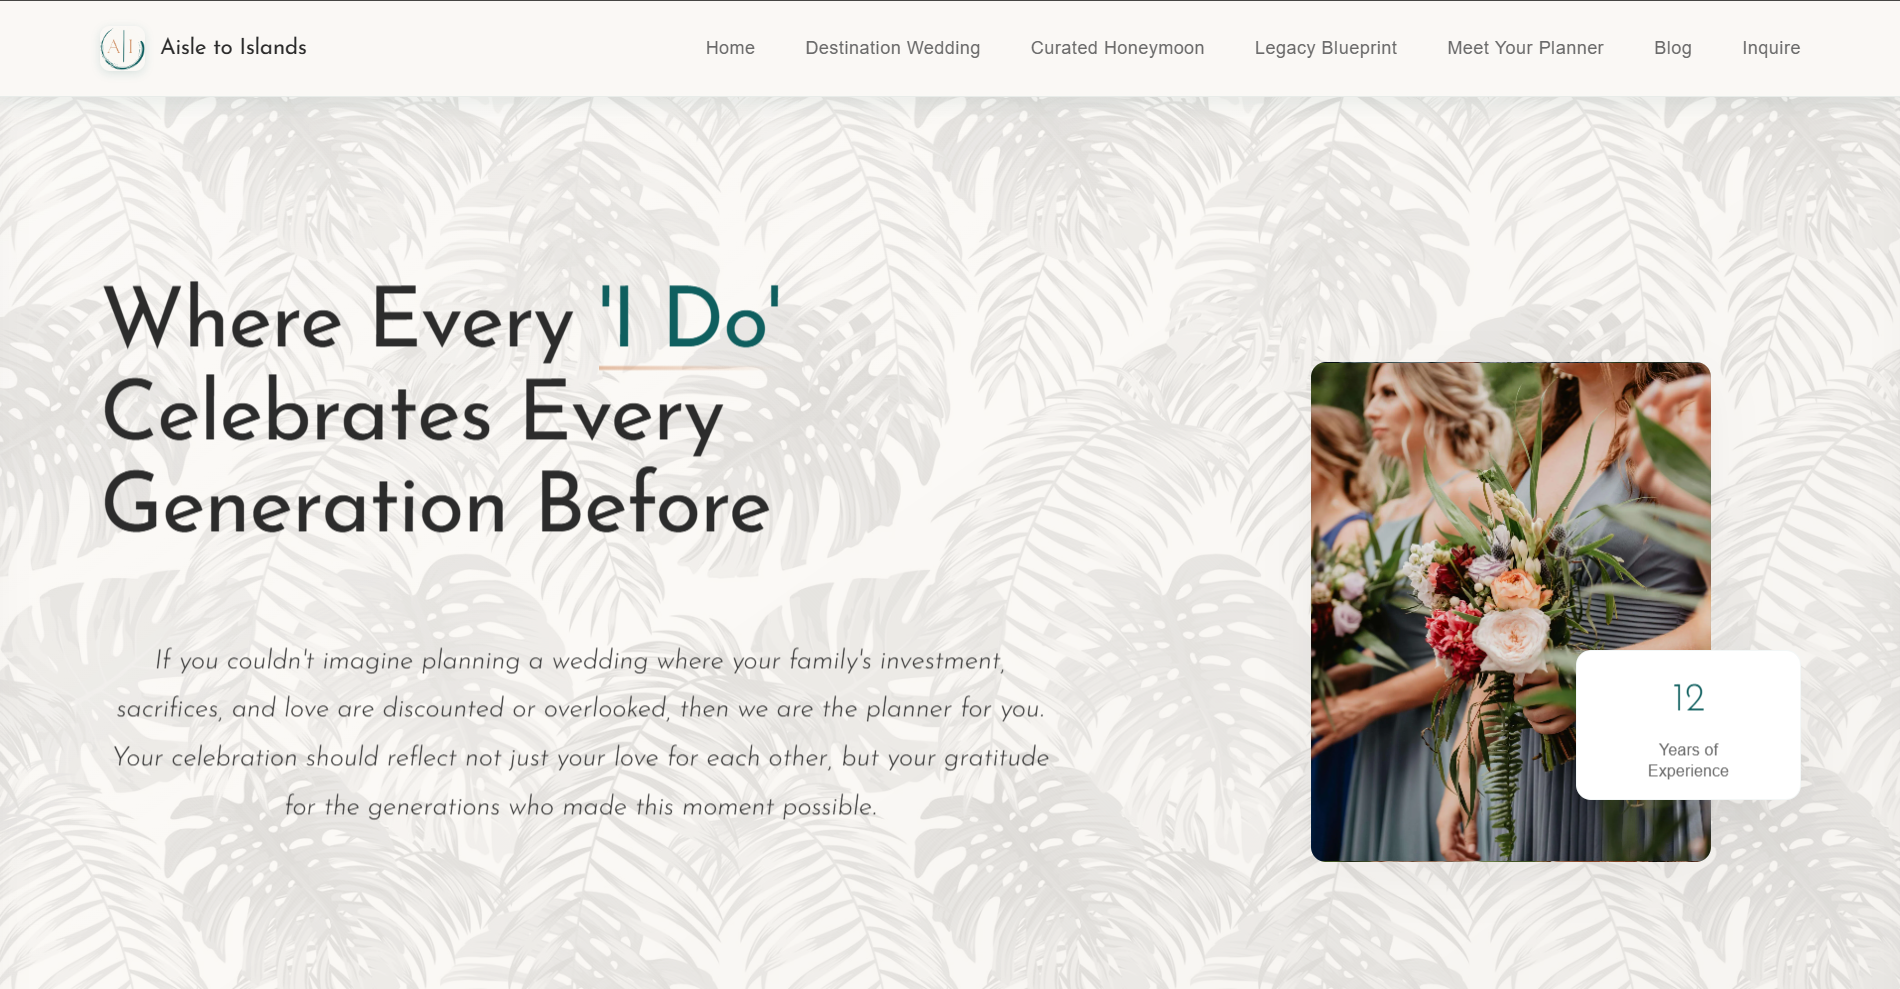
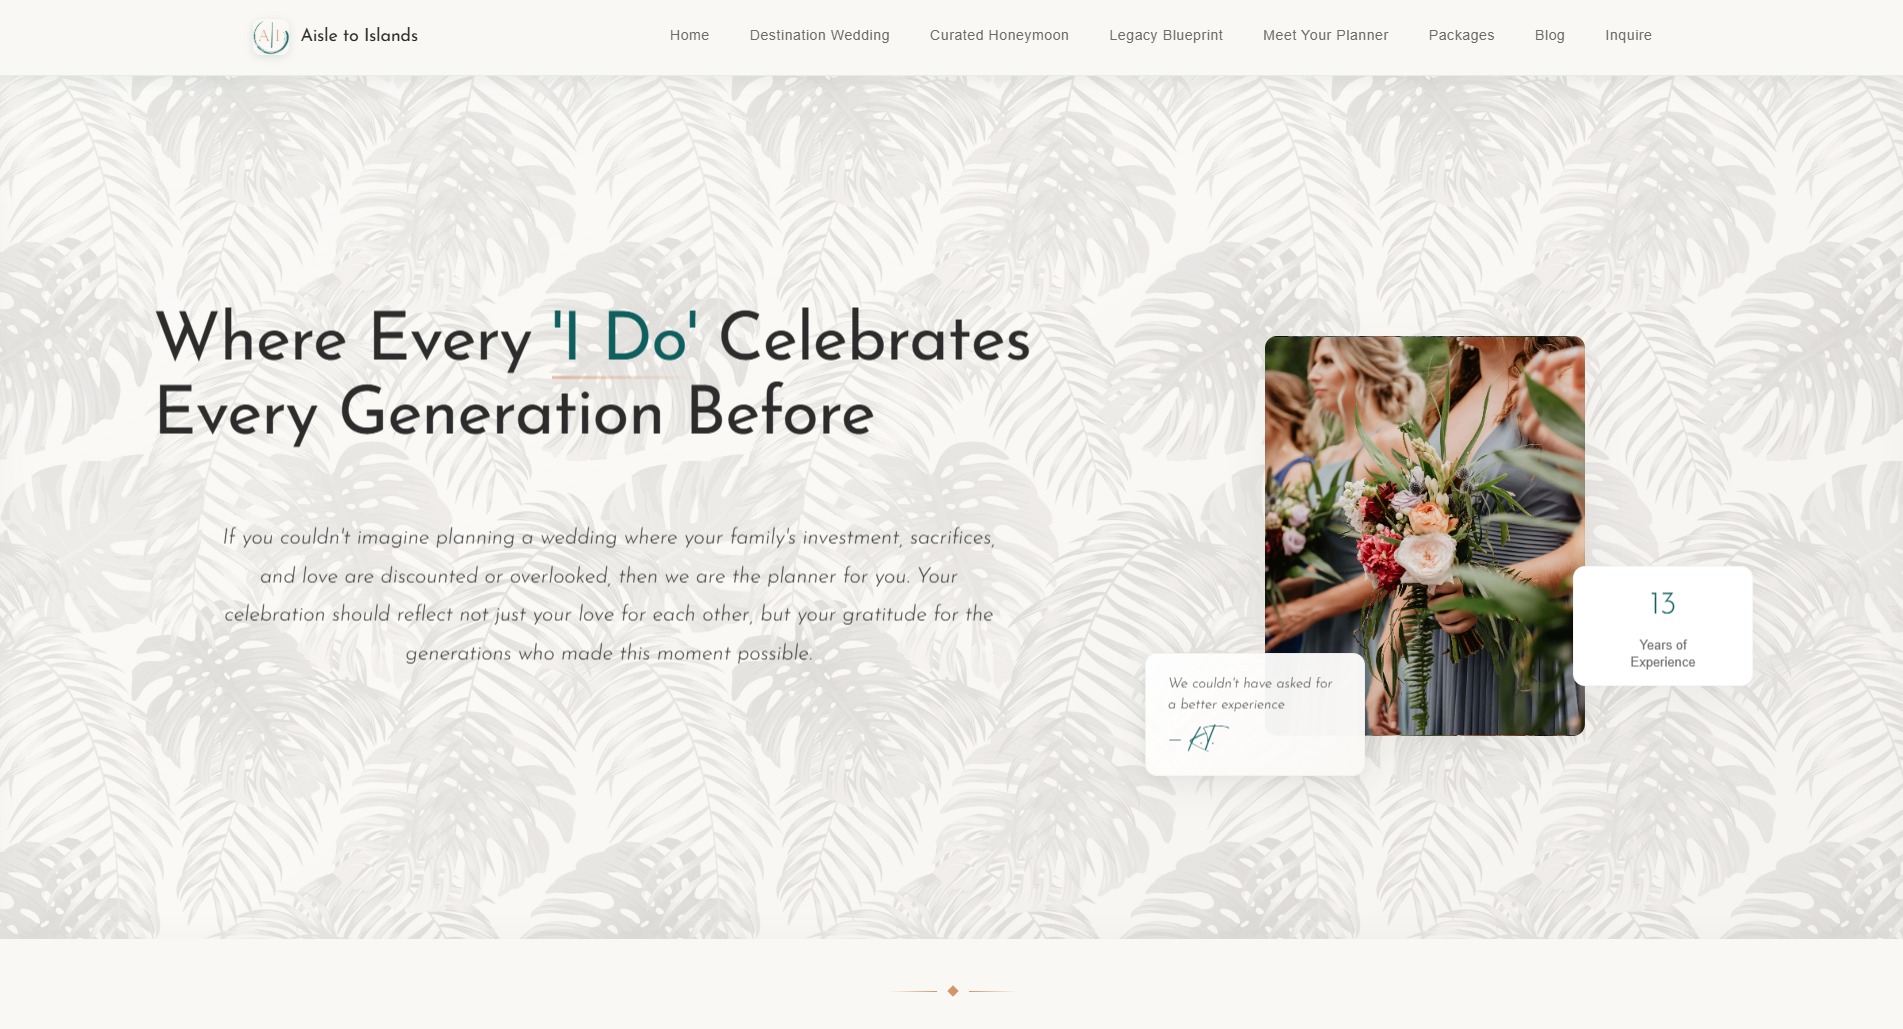
Add Tended as featured project, button effects, service/project reordering, and visual polish
- Add Tended.church as featured first project with Live Product badge and full-width layout
- Add chromatic aberration effect on service card icons and Let's Talk button
- Add shimmer sweep hover effect on sage green buttons (View Work, Send Message)
- Swap service order: Application Development first, then Web Design
- Swap project order: Mise en Place before Aisle to Islands
- Fix portfolio card and browser frame border-radius (top corners only)
- Remove browser-dots bottom border
- Update Aisle to Islands screenshot
- Update footer to Lueken Good Design LLC
- Update proof indicator copy

diff --git a/index.html b/index.html
@@ -79,27 +79,79 @@
         }
 
         /* Button hover effect */
-        .btn-primary {
+        /* Oil-slick iridescent buttons */
+        /* Chromatic aberration — dark backgrounds */
+        .btn-chroma-dark {
             position: relative;
             overflow: hidden;
         }
-        .btn-primary::before {
+        .btn-chroma-dark::before,
+        .btn-chroma-dark::after {
+            content: attr(data-text);
+            position: absolute;
+            inset: 0;
+            display: inline-flex;
+            align-items: center;
+            justify-content: center;
+            font: inherit;
+            letter-spacing: inherit;
+            text-transform: inherit;
+            pointer-events: none;
+            opacity: 0;
+            transition: opacity 0.3s ease;
+        }
+        .btn-chroma-dark::before {
+            color: rgba(255, 60, 60, 0.6);
+            transform: translate(-2px, 0);
+            mix-blend-mode: screen;
+        }
+        .btn-chroma-dark::after {
+            color: rgba(60, 100, 255, 0.6);
+            transform: translate(2px, 0);
+            mix-blend-mode: screen;
+        }
+        .btn-chroma-dark:hover::before,
+        .btn-chroma-dark:hover::after {
+            opacity: 1;
+        }
+
+        /* Shimmer sweep — sage/light buttons */
+        .btn-shimmer {
+            position: relative;
+            overflow: hidden;
+            transition: transform 0.3s ease, box-shadow 0.3s ease;
+        }
+        .btn-shimmer::after {
             content: '';
             position: absolute;
             top: 0;
             left: -100%;
-            width: 100%;
+            width: 50%;
             height: 100%;
-            background: linear-gradient(90deg, transparent, rgba(255,255,255,0.1), transparent);
-            transition: left 0.5s ease;
+            background: linear-gradient(
+                105deg,
+                transparent 30%,
+                rgba(255, 255, 255, 0.35) 50%,
+                transparent 70%
+            );
+            pointer-events: none;
         }
-        .btn-primary:hover::before {
-            left: 100%;
+        .btn-shimmer:hover::after {
+            animation: shimmer 0.6s ease forwards;
+        }
+        .btn-shimmer:hover {
+            transform: translateY(-1px);
+            box-shadow: 0 4px 16px rgba(143, 166, 142, 0.35);
+        }
+        @keyframes shimmer {
+            to { left: 150%; }
         }
 
         /* Portfolio card hover */
         .portfolio-card {
             transition: transform 0.4s ease, box-shadow 0.4s ease;
+            border-radius: 8px 8px 0 0;
+            overflow: hidden;
         }
         .portfolio-card:hover {
             transform: translateY(-8px);
@@ -121,6 +173,37 @@
             height: 100%;
         }
 
+        /* Chromatic aberration on service icons */
+        .service-card .icon-wrap {
+            position: relative;
+        }
+        .service-card .icon-wrap::before,
+        .service-card .icon-wrap::after {
+            content: '';
+            position: absolute;
+            inset: 0;
+            border-radius: inherit;
+            background: inherit;
+            opacity: 0;
+            transition: opacity 0.4s ease, transform 0.4s ease;
+            pointer-events: none;
+            mix-blend-mode: screen;
+        }
+        .service-card .icon-wrap::before {
+            background: rgba(255, 60, 60, 0.15);
+        }
+        .service-card .icon-wrap::after {
+            background: rgba(60, 60, 255, 0.15);
+        }
+        .service-card:hover .icon-wrap::before {
+            opacity: 1;
+            transform: translate(-3px, -1px);
+        }
+        .service-card:hover .icon-wrap::after {
+            opacity: 1;
+            transform: translate(3px, 1px);
+        }
+
         /* Form focus states */
         .form-input:focus {
             outline: none;
@@ -140,7 +223,7 @@
         /* Browser frame for portfolio */
         .browser-frame {
             background: linear-gradient(135deg, #2a2a2a 0%, #1f1f1f 100%);
-            border-radius: 8px;
+            border-radius: 8px 8px 0 0;
             overflow: hidden;
         }
         .browser-dots {
@@ -148,7 +231,6 @@
             gap: 6px;
             padding: 12px 16px;
             background: #2a2a2a;
-            border-bottom: 1px solid #333;
         }
         .browser-dots span {
             width: 10px;
@@ -194,13 +276,13 @@
                 </p>
 
                 <div class="flex flex-wrap gap-4 reveal reveal-delay-3">
-                    <a href="#work" class="btn-primary inline-flex items-center gap-2 bg-[#8FA68E] text-[#1a1a1a] px-8 py-4 font-bold text-sm uppercase tracking-wider hover:bg-[#6B8069] transition-colors">
+                    <a href="#work" class="btn-shimmer inline-flex items-center gap-2 bg-[#8FA68E] text-[#1a1a1a] px-8 py-4 font-bold text-sm uppercase tracking-wider transition-colors">
                         View Work
                         <svg class="w-4 h-4" fill="none" stroke="currentColor" viewBox="0 0 24 24">
                             <path stroke-linecap="round" stroke-linejoin="round" stroke-width="2" d="M19 14l-7 7m0 0l-7-7m7 7V3"/>
                         </svg>
                     </a>
-                    <a href="#contact" class="inline-flex items-center gap-2 border border-gray-600 text-gray-300 px-8 py-4 font-bold text-sm uppercase tracking-wider hover:border-[#8FA68E] hover:text-[#8FA68E] transition-colors">
+                    <a href="#contact" class="btn-chroma-dark inline-flex items-center gap-2 border border-gray-600 text-gray-300 px-8 py-4 font-bold text-sm uppercase tracking-wider transition-colors" data-text="Let's Talk">
                         Let's Talk
                     </a>
                 </div>
@@ -210,7 +292,7 @@
                     <div class="flex items-center gap-6 text-sm text-gray-500">
                         <div class="flex items-center gap-2">
                             <span class="w-2 h-2 bg-[#8FA68E] rounded-full"></span>
-                            <span>SaaS platform in production</span>
+                            <span>SaaS platform &amp; mobile apps in production</span>
                         </div>
                         <div class="flex items-center gap-2">
                             <span class="w-2 h-2 bg-[#8FA68E] rounded-full"></span>
@@ -231,23 +313,28 @@
             </div>
 
             <div class="grid md:grid-cols-2 gap-8">
-                <!-- Project 1: Aisle to Islands -->
-                <a href="https://aisle-to-islands.com" target="_blank" rel="noopener" class="portfolio-card block bg-[#1a1a1a] border border-[#333] reveal">
+                <!-- Project: Tended -->
+                <a href="https://tended.church" target="_blank" rel="noopener" class="portfolio-card block bg-[#1a1a1a] border border-[#333] md:col-span-2 reveal">
                     <div class="browser-frame">
                         <div class="browser-dots">
                             <span></span><span></span><span></span>
                         </div>
-                        <img src="images/portfolio/AnI.png" alt="Aisle to Islands - Luxury destination wedding planning website" class="w-full aspect-video object-cover object-top">
+                        <img src="images/portfolio/tended.png" alt="Tended - Pastoral care accountability software for churches" class="w-full aspect-[2.2/1] object-cover object-top">
                     </div>
                     <div class="p-6">
-                        <h3 class="text-xl font-semibold mb-2">Aisle to Islands</h3>
-                        <p class="text-gray-400 text-sm mb-4">Luxury destination wedding and honeymoon planning. Complete brand identity, custom design system, SEO optimization.</p>
-                        <div class="flex flex-wrap gap-2 mb-4">
-                            <span class="px-3 py-1 bg-[#242424] text-xs text-gray-400 uppercase tracking-wider">Custom Design</span>
-                            <span class="px-3 py-1 bg-[#242424] text-xs text-gray-400 uppercase tracking-wider">SEO</span>
-                            <span class="px-3 py-1 bg-[#242424] text-xs text-gray-400 uppercase tracking-wider">Performance</span>
+                        <div class="flex items-center gap-3 mb-2">
+                            <h3 class="text-xl font-semibold">Tended</h3>
+                            <span class="px-2 py-0.5 bg-[#8FA68E]/15 text-[#8FA68E] text-[10px] uppercase tracking-wider font-bold">Live Product</span>
                         </div>
-                        <span class="text-[#8FA68E] text-sm inline-flex items-center gap-2 group-hover:gap-3 transition-all">
+                        <p class="text-gray-400 text-sm mb-4 max-w-2xl">Pastoral care accountability platform. Drift detection, leadership dashboards, staff engagement tracking, and mobile apps — helping churches notice who's slipping through the cracks before it's too late.</p>
+                        <div class="flex flex-wrap gap-2 mb-4">
+                            <span class="px-3 py-1 bg-[#242424] text-xs text-gray-400 uppercase tracking-wider">Full-Stack SaaS</span>
+                            <span class="px-3 py-1 bg-[#242424] text-xs text-gray-400 uppercase tracking-wider">Laravel</span>
+                            <span class="px-3 py-1 bg-[#242424] text-xs text-gray-400 uppercase tracking-wider">Flutter</span>
+                            <span class="px-3 py-1 bg-[#242424] text-xs text-gray-400 uppercase tracking-wider">PostgreSQL</span>
+                            <span class="px-3 py-1 bg-[#242424] text-xs text-gray-400 uppercase tracking-wider">Stripe</span>
+                        </div>
+                        <span class="text-[#8FA68E] text-sm inline-flex items-center gap-2">
                             Visit Site
                             <svg class="w-4 h-4" fill="none" stroke="currentColor" viewBox="0 0 24 24">
                                 <path stroke-linecap="round" stroke-linejoin="round" stroke-width="2" d="M17 8l4 4m0 0l-4 4m4-4H3"/>
@@ -256,8 +343,8 @@
                     </div>
                 </a>
 
-                <!-- Project 2: Mise en Place -->
-                <a href="https://mise-en-place.recipes" target="_blank" rel="noopener" class="portfolio-card block bg-[#1a1a1a] border border-[#333] reveal reveal-delay-1">
+                <!-- Project: Mise en Place -->
+                <a href="https://mise-en-place.recipes" target="_blank" rel="noopener" class="portfolio-card block bg-[#1a1a1a] border border-[#333] reveal">
                     <div class="browser-frame">
                         <div class="browser-dots">
                             <span></span><span></span><span></span>
@@ -280,6 +367,31 @@
                         </span>
                     </div>
                 </a>
+
+                <!-- Project: Aisle to Islands -->
+                <a href="https://aisle-to-islands.com" target="_blank" rel="noopener" class="portfolio-card block bg-[#1a1a1a] border border-[#333] reveal reveal-delay-1">
+                    <div class="browser-frame">
+                        <div class="browser-dots">
+                            <span></span><span></span><span></span>
+                        </div>
+                        <img src="images/portfolio/AnI.png" alt="Aisle to Islands - Luxury destination wedding planning website" class="w-full aspect-video object-cover object-top">
+                    </div>
+                    <div class="p-6">
+                        <h3 class="text-xl font-semibold mb-2">Aisle to Islands</h3>
+                        <p class="text-gray-400 text-sm mb-4">Luxury destination wedding and honeymoon planning. Complete brand identity, custom design system, SEO optimization.</p>
+                        <div class="flex flex-wrap gap-2 mb-4">
+                            <span class="px-3 py-1 bg-[#242424] text-xs text-gray-400 uppercase tracking-wider">Custom Design</span>
+                            <span class="px-3 py-1 bg-[#242424] text-xs text-gray-400 uppercase tracking-wider">SEO</span>
+                            <span class="px-3 py-1 bg-[#242424] text-xs text-gray-400 uppercase tracking-wider">Performance</span>
+                        </div>
+                        <span class="text-[#8FA68E] text-sm inline-flex items-center gap-2 group-hover:gap-3 transition-all">
+                            Visit Site
+                            <svg class="w-4 h-4" fill="none" stroke="currentColor" viewBox="0 0 24 24">
+                                <path stroke-linecap="round" stroke-linejoin="round" stroke-width="2" d="M17 8l4 4m0 0l-4 4m4-4H3"/>
+                            </svg>
+                        </span>
+                    </div>
+                </a>
             </div>
         </div>
     </section>
@@ -295,35 +407,7 @@
             <div class="grid md:grid-cols-3 gap-8">
                 <!-- Service 1 -->
                 <div class="service-card relative bg-[#1a1a1a] border border-[#333] p-8 reveal">
-                    <div class="w-12 h-12 bg-[#8FA68E]/10 flex items-center justify-center mb-6">
-                        <svg class="w-6 h-6 text-[#8FA68E]" fill="none" stroke="currentColor" viewBox="0 0 24 24">
-                            <path stroke-linecap="round" stroke-linejoin="round" stroke-width="1.5" d="M9.75 17L9 20l-1 1h8l-1-1-.75-3M3 13h18M5 17h14a2 2 0 002-2V5a2 2 0 00-2-2H5a2 2 0 00-2 2v10a2 2 0 002 2z"/>
-                        </svg>
-                    </div>
-                    <h3 class="text-xl font-semibold mb-4">Web Design & Development</h3>
-                    <p class="text-gray-400 text-sm mb-6 leading-relaxed">
-                        Custom websites that reflect your brand. No templates, no page builders.
-                        Hand-crafted code that performs and converts.
-                    </p>
-                    <ul class="space-y-2 text-sm text-gray-500">
-                        <li class="flex items-center gap-2">
-                            <span class="w-1 h-1 bg-[#8FA68E] rounded-full"></span>
-                            Complete brand integration
-                        </li>
-                        <li class="flex items-center gap-2">
-                            <span class="w-1 h-1 bg-[#8FA68E] rounded-full"></span>
-                            SEO & performance optimization
-                        </li>
-                        <li class="flex items-center gap-2">
-                            <span class="w-1 h-1 bg-[#8FA68E] rounded-full"></span>
-                            Mobile-first responsive design
-                        </li>
-                    </ul>
-                </div>
-
-                <!-- Service 2 -->
-                <div class="service-card relative bg-[#1a1a1a] border border-[#333] p-8 reveal reveal-delay-1">
-                    <div class="w-12 h-12 bg-[#8FA68E]/10 flex items-center justify-center mb-6">
+                    <div class="icon-wrap w-12 h-12 bg-[#8FA68E]/10 flex items-center justify-center mb-6">
                         <svg class="w-6 h-6 text-[#8FA68E]" fill="none" stroke="currentColor" viewBox="0 0 24 24">
                             <path stroke-linecap="round" stroke-linejoin="round" stroke-width="1.5" d="M10 20l4-16m4 4l4 4-4 4M6 16l-4-4 4-4"/>
                         </svg>
@@ -349,9 +433,37 @@
                     </ul>
                 </div>
 
+                <!-- Service 2 -->
+                <div class="service-card relative bg-[#1a1a1a] border border-[#333] p-8 reveal reveal-delay-1">
+                    <div class="icon-wrap w-12 h-12 bg-[#8FA68E]/10 flex items-center justify-center mb-6">
+                        <svg class="w-6 h-6 text-[#8FA68E]" fill="none" stroke="currentColor" viewBox="0 0 24 24">
+                            <path stroke-linecap="round" stroke-linejoin="round" stroke-width="1.5" d="M9.75 17L9 20l-1 1h8l-1-1-.75-3M3 13h18M5 17h14a2 2 0 002-2V5a2 2 0 00-2-2H5a2 2 0 00-2 2v10a2 2 0 002 2z"/>
+                        </svg>
+                    </div>
+                    <h3 class="text-xl font-semibold mb-4">Web Design & Development</h3>
+                    <p class="text-gray-400 text-sm mb-6 leading-relaxed">
+                        Custom websites that reflect your brand. No templates, no page builders.
+                        Hand-crafted code that performs and converts.
+                    </p>
+                    <ul class="space-y-2 text-sm text-gray-500">
+                        <li class="flex items-center gap-2">
+                            <span class="w-1 h-1 bg-[#8FA68E] rounded-full"></span>
+                            Complete brand integration
+                        </li>
+                        <li class="flex items-center gap-2">
+                            <span class="w-1 h-1 bg-[#8FA68E] rounded-full"></span>
+                            SEO & performance optimization
+                        </li>
+                        <li class="flex items-center gap-2">
+                            <span class="w-1 h-1 bg-[#8FA68E] rounded-full"></span>
+                            Mobile-first responsive design
+                        </li>
+                    </ul>
+                </div>
+
                 <!-- Service 3 -->
                 <div class="service-card relative bg-[#1a1a1a] border border-[#333] p-8 reveal reveal-delay-2">
-                    <div class="w-12 h-12 bg-[#8FA68E]/10 flex items-center justify-center mb-6">
+                    <div class="icon-wrap w-12 h-12 bg-[#8FA68E]/10 flex items-center justify-center mb-6">
                         <svg class="w-6 h-6 text-[#8FA68E]" fill="none" stroke="currentColor" viewBox="0 0 24 24">
                             <path stroke-linecap="round" stroke-linejoin="round" stroke-width="1.5" d="M4 7v10c0 2.21 3.582 4 8 4s8-1.79 8-4V7M4 7c0 2.21 3.582 4 8 4s8-1.79 8-4M4 7c0-2.21 3.582-4 8-4s8 1.79 8 4m0 5c0 2.21-3.582 4-8 4s-8-1.79-8-4"/>
                         </svg>
@@ -510,7 +622,7 @@
 
                 <button
                     type="submit"
-                    class="btn-primary w-full bg-[#8FA68E] text-[#1a1a1a] py-4 font-bold text-sm uppercase tracking-wider hover:bg-[#6B8069] transition-colors"
+                    class="btn-shimmer btn-primary w-full bg-[#8FA68E] text-[#1a1a1a] py-4 font-bold text-sm uppercase tracking-wider hover:bg-[#6B8069] transition-colors"
                 >
                     Send Message
                 </button>
@@ -532,7 +644,7 @@
             <div class="flex flex-col md:flex-row justify-between items-center gap-6">
                 <div class="text-center md:text-left">
                     <p class="text-sm text-gray-500">
-                        &copy; 2025 Lueken Good Design. All systems nominal.
+                        &copy; 2025 Lueken Good Design LLC. All systems nominal.
                     </p>
                     <p class="text-xs text-gray-600 mt-1">
                         Sustainable systems designed for longevity.
